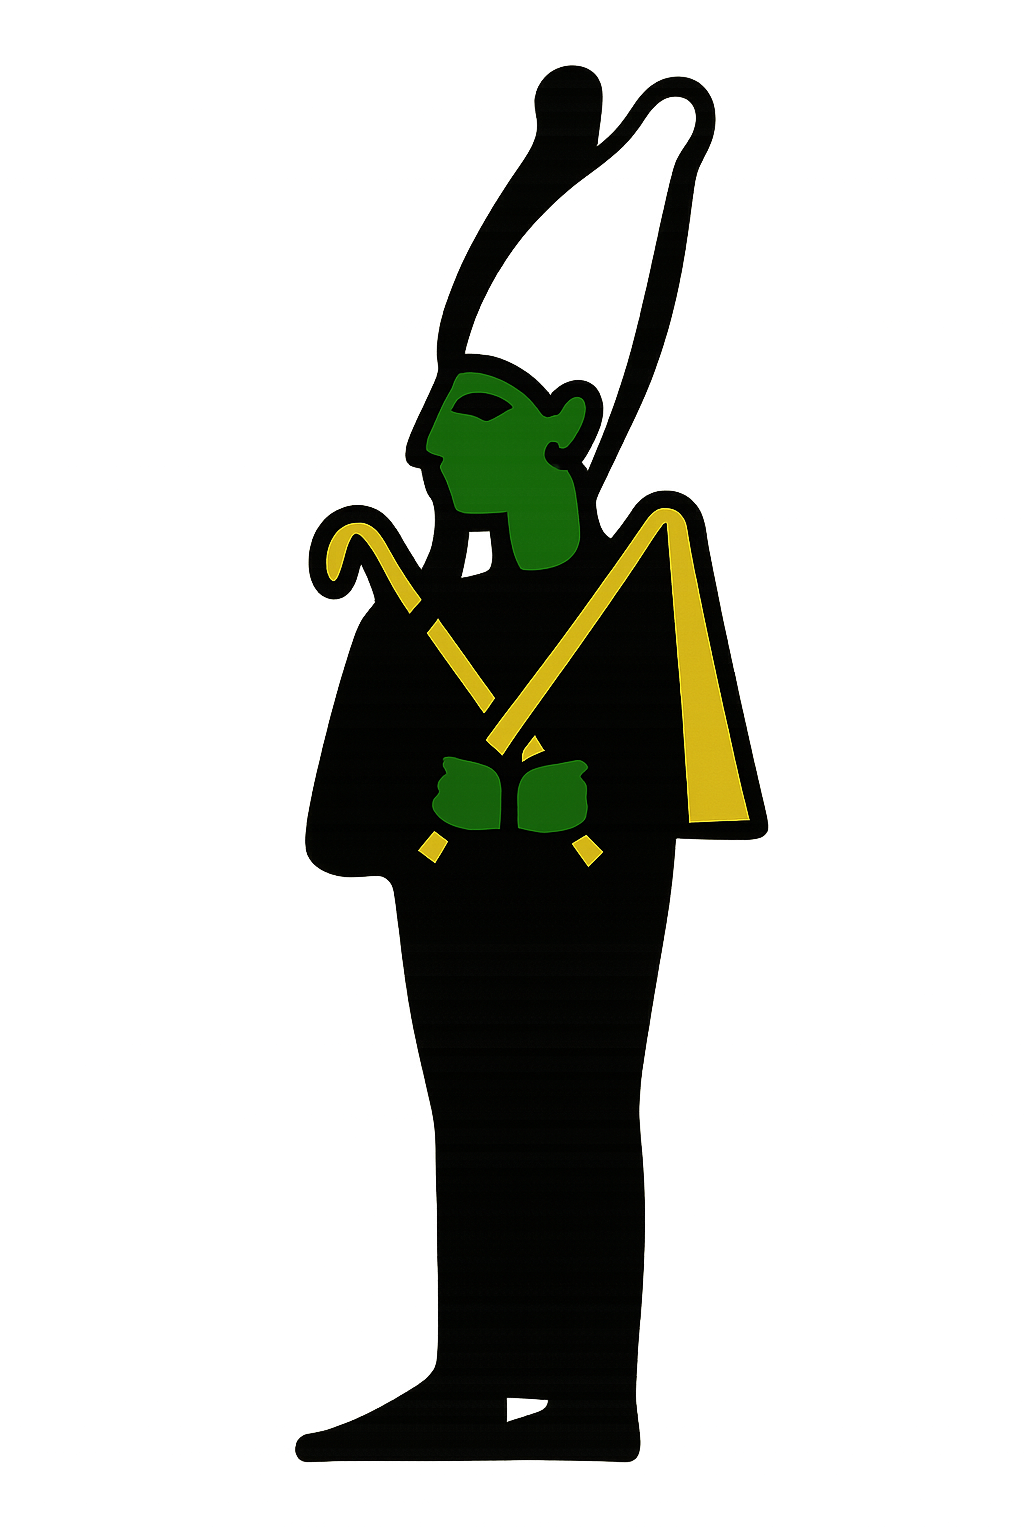
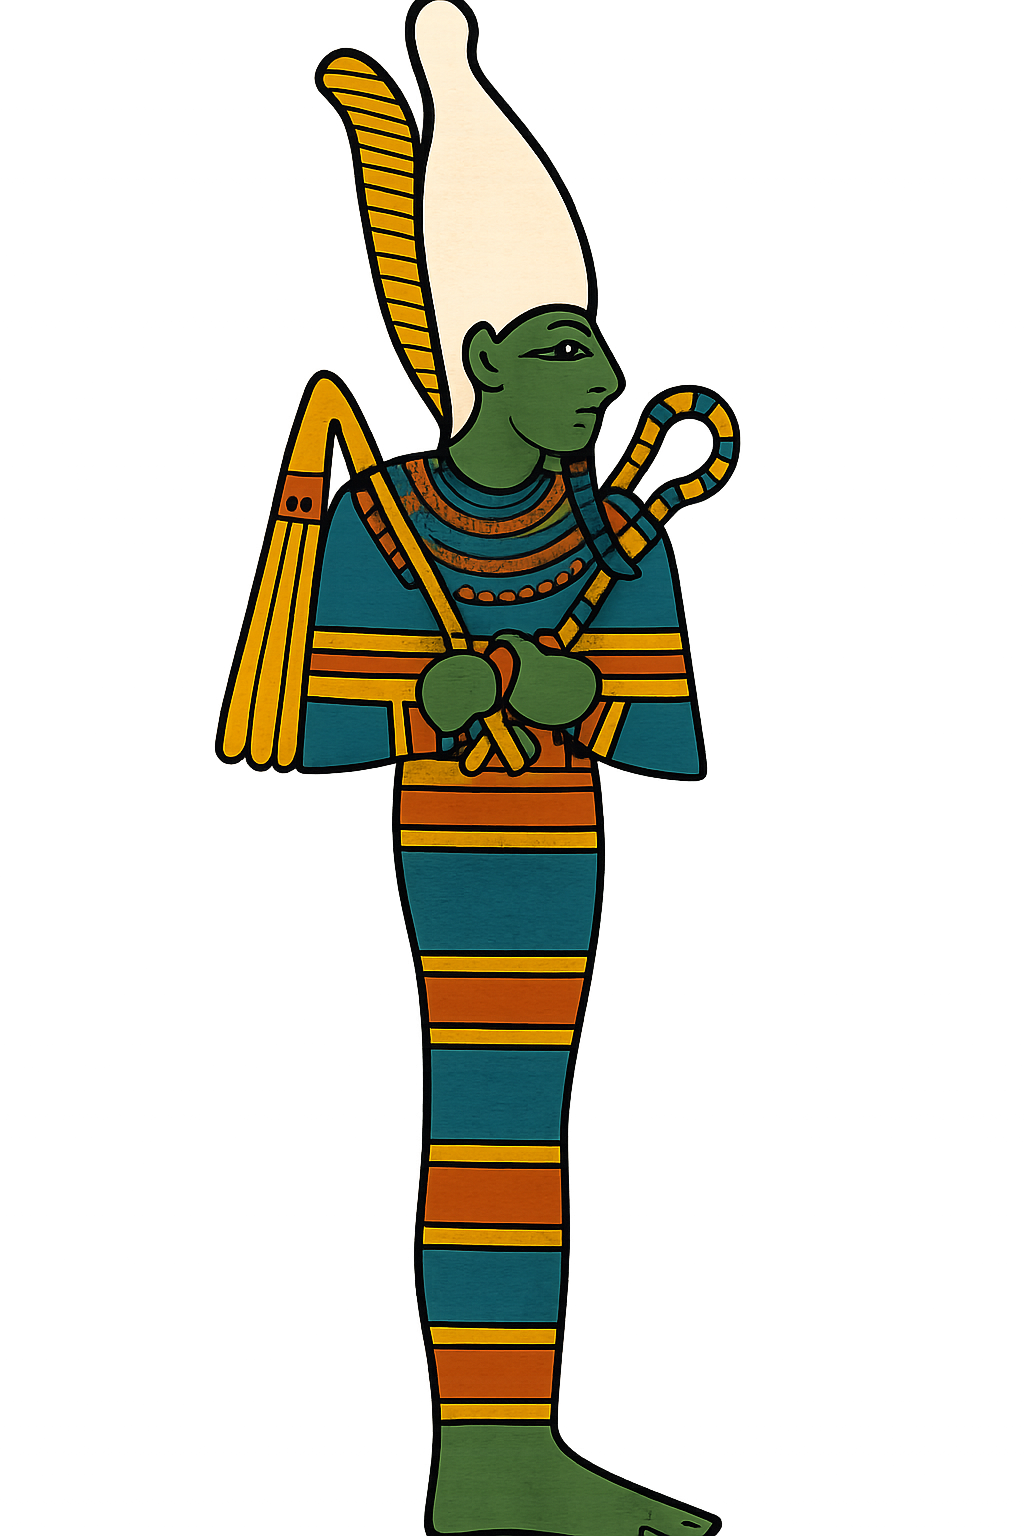
Flutter: hairline card edge on splash so dark decks read on black
The splash deals the user's selected deck, but premium dark decks (Greek,
Tarot, Ukiyo-e…) vanished against the black backdrop. Trace each card with a
crisp 1px foreground hairline so the silhouette reads — no glow, and the deck
personalization is kept.

Changed region(s): [[0.1875, 0.0, 0.75, 1.0]]

diff --git a/app_flutter/lib/ui/screens/splash_screen.dart b/app_flutter/lib/ui/screens/splash_screen.dart
@@ -148,7 +148,21 @@ class _SplashScreenState extends ConsumerState<SplashScreen>
                           opacity: s.opacity.clamp(0.0, 1.0),
                           child: Transform.translate(
                             offset: Offset(0, s.dy),
-                            child: PlayingCardView(card: _cards[i], theme: theme, width: cardWidth),
+                            // A crisp hairline traces the card edge so dark
+                            // decks (Greek, Tarot…) still read against the black
+                            // splash — no glow. Foreground so it sits on the art.
+                            child: DecoratedBox(
+                              position: DecorationPosition.foreground,
+                              decoration: BoxDecoration(
+                                borderRadius: BorderRadius.circular(cardWidth * 0.06),
+                                border: Border.all(
+                                  color: Colors.white.withValues(alpha: 0.25),
+                                  width: 1,
+                                ),
+                              ),
+                              child: PlayingCardView(
+                                  card: _cards[i], theme: theme, width: cardWidth),
+                            ),
                           ),
                         ),
                       );

diff --git a/tools/card_gen/gen_components.py b/tools/card_gen/gen_components.py
@@ -78,13 +78,13 @@ GYOTAKU_STYLE = (
     "glossy), no 3D shading, no photorealism."
 )
 EGYPTIAN_STYLE = (
-    "a bold minimal ancient Egyptian hieroglyph ICON style: the figure reduced to a "
-    "few large simple flat shapes with clean crisp vector edges and a strong black "
-    "silhouette, using only one or two small flat accent colors (e.g. gold or "
-    "turquoise) and nothing more — NO shading, NO gradients, NO fine detail, NO small "
-    "interior shapes, NO realism; extremely simplified and graphic like a single "
-    "carved glyph or pictogram, in composite profile (head and legs in side view, "
-    "torso and eye frontal), against a warm golden-ochre amber ground."
+    "authentic ancient Egyptian tomb-wall painting in vibrant polychrome, in the "
+    "manner of a Book-of-the-Dead illustration: bold clean black outlines and flat "
+    "unshaded fields of bright turquoise and azure blue, gold and yellow ochre, "
+    "terracotta brick-red and deep navy, with richly colored robes, blue-and-gold "
+    "striped nemes headdresses and broad jeweled wesekh collars; the figure in classic "
+    "composite profile (head and legs in side view, torso and eye frontal), ornate, "
+    "flat, decorative and hieratic; NO shading, NO gradients, NO photorealism."
 )
 # Suit-color maps to the two real vase techniques (drawn on transparent bg).
 GREEK_TECH = {
@@ -365,19 +365,17 @@ DECKS = {
             "clubs": ("trefoil club (clover)", "black"),
         },
         "frame": (
-            "A blank flat field of a single even warm golden-ochre amber color "
-            "(Egyptian ochre), one solid flat color filling the entire image, "
-            "absolutely no texture, no pattern, no gradient, no figures, no border, "
-            "no text. Portrait orientation."
+            "A blank sheet of warm cream Egyptian papyrus with a subtle fine fibrous "
+            "texture, evenly lit. Completely EMPTY: no figures, no symbols, no border, "
+            "no hieroglyphs, no text — just the plain cream papyrus filling the whole "
+            "image. Portrait orientation."
         ),
         "emblem_style": (
-            "a bold flat solid graphic silhouette style: a clean crisp solid shape, "
-            "high contrast, completely flat, no shading and no interior detail."
+            "a bold flat ancient-Egyptian decorative emblem style: a clean solid symbol "
+            "with a bold black outline and flat color, ornate but simple, no figures, "
+            "no scene."
         ),
-        "emblem_fill": (
-            "a single solid flat {color} silhouette with clean crisp edges, no "
-            "shading and no interior texture"
-        ),
+        "emblem_fill": "a solid flat {color} shape with a bold black outline",
         "iso_note": (
             "Render ONLY the figure's own solid silhouette shape — no rectangular "
             "panel, box, block, tablet or background field of any kind behind or "
@@ -391,14 +389,14 @@ DECKS = {
             "clubs": "golden pharaoh funerary mask in a striped nemes headdress",
         },
         "back": (
-            "A playing-card BACK in bold flat Egyptian hieroglyph style: a SINGLE "
-            "CENTERED medallion of a winged scarab beetle holding a sun disk, enclosed "
-            "in a thin circular band, in solid black on a plain warm golden-ochre amber "
-            "ground. High contrast, flat, no shading, no texture. The medallion sits in "
-            "the middle with a GENEROUS plain ochre margin all around it and empty "
-            "ochre ground extending to every edge. Portrait orientation. NO border "
-            "frame at the card edges, NO extra colors, NO text, NO numbers, NO letters, "
-            "NO pips."
+            "A playing-card BACK in vibrant polychrome ancient Egyptian tomb-painting "
+            "style: a SINGLE CENTERED medallion of a winged scarab beetle holding a "
+            "golden sun disk, enclosed in a thin circular band, richly colored in "
+            "turquoise-blue, gold, terracotta-red and navy with bold black outlines, on "
+            "a plain deep azure-blue ground. Flat and decorative. The medallion sits in "
+            "the middle with a GENEROUS plain blue margin all around it and empty blue "
+            "ground extending to every edge. Portrait orientation. NO border frame at "
+            "the card edges, NO text, NO numbers, NO letters, NO pips."
         ),
         "courts": {
             ("spades", "K"): "the god Osiris as a wrapped mummy with green skin, wearing the tall white Atef crown with two feathers, holding the crook and flail across his chest",

diff --git a/tools/card_gen/composite.py b/tools/card_gen/composite.py
@@ -66,9 +66,9 @@ DECK_STYLES = {
         "ace_fit": (0.50, 0.44),
     },
     "egyptian": {
-        "border": ((44, 38, 30), (24, 20, 16)),  # near-black lines on ochre
-        "red": (150, 52, 38),   # deep terracotta index for red suits
-        "black": (34, 30, 26),  # near-black index
+        "border": ((36, 52, 104), (20, 32, 64)),  # Egyptian-blue keyline on cream papyrus
+        "red": (170, 52, 42),   # brick-red index for red suits
+        "black": (30, 38, 72),  # deep ink-navy index for black suits
         "ace_fit": (0.42, 0.42),
     },
     "roman": {
